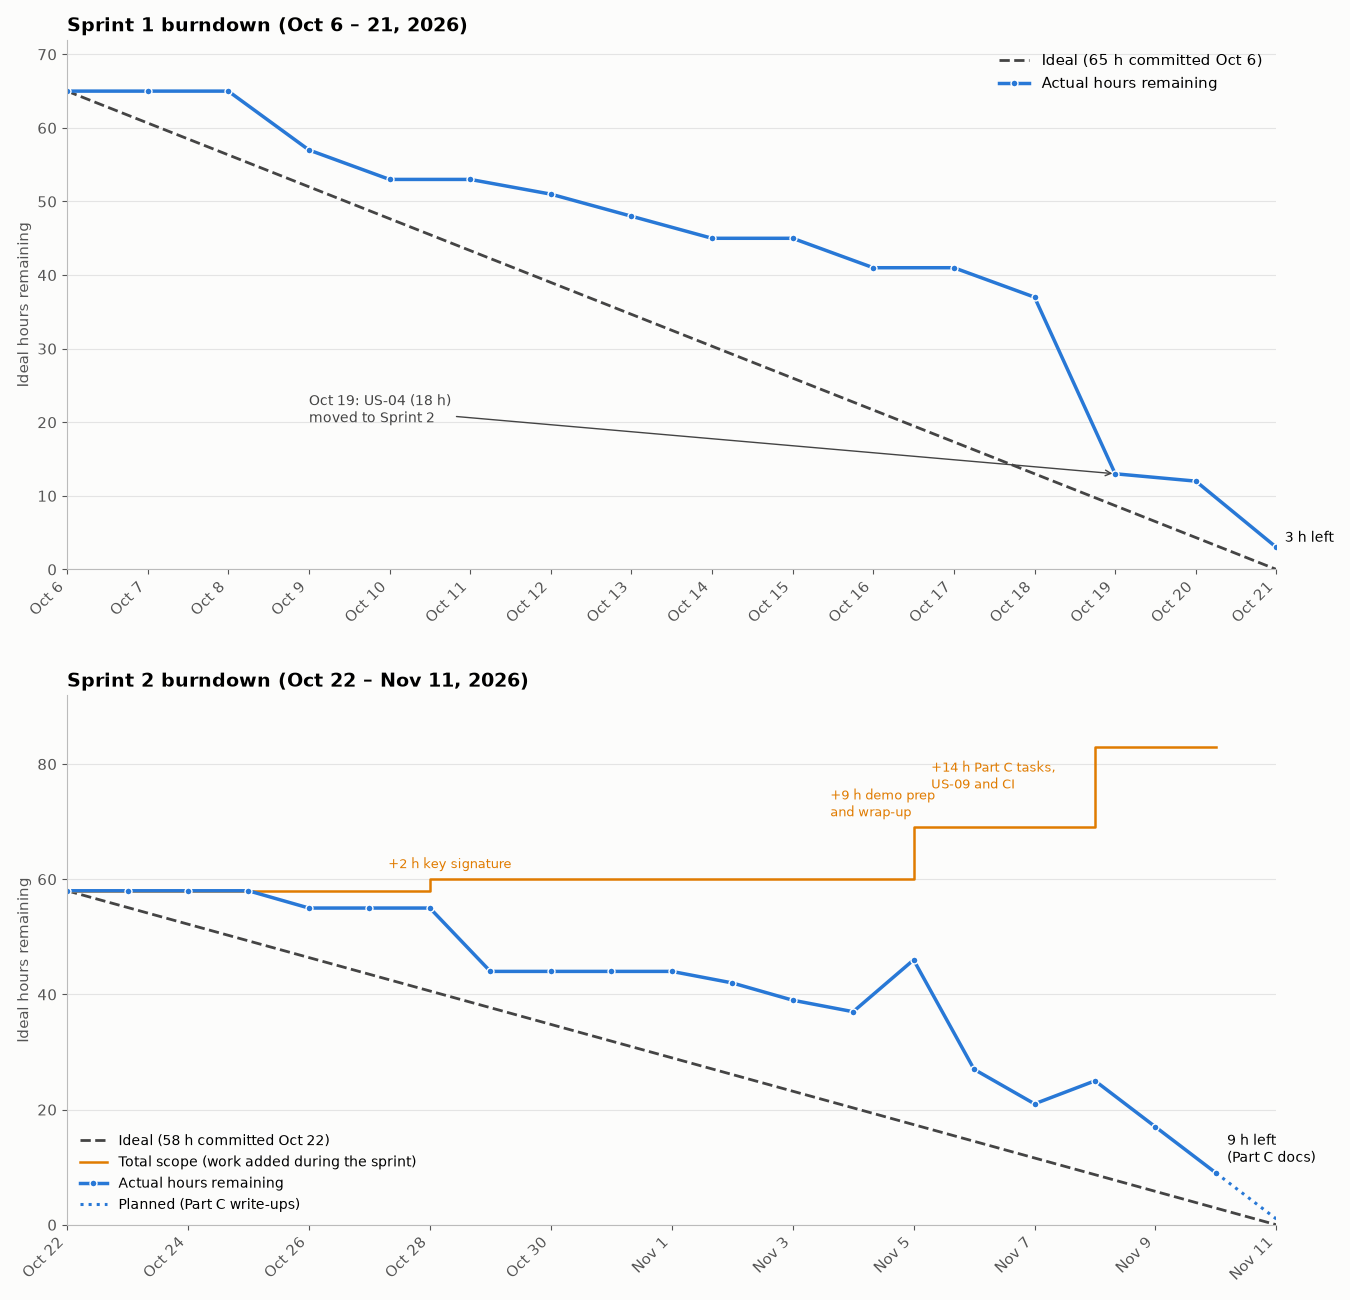
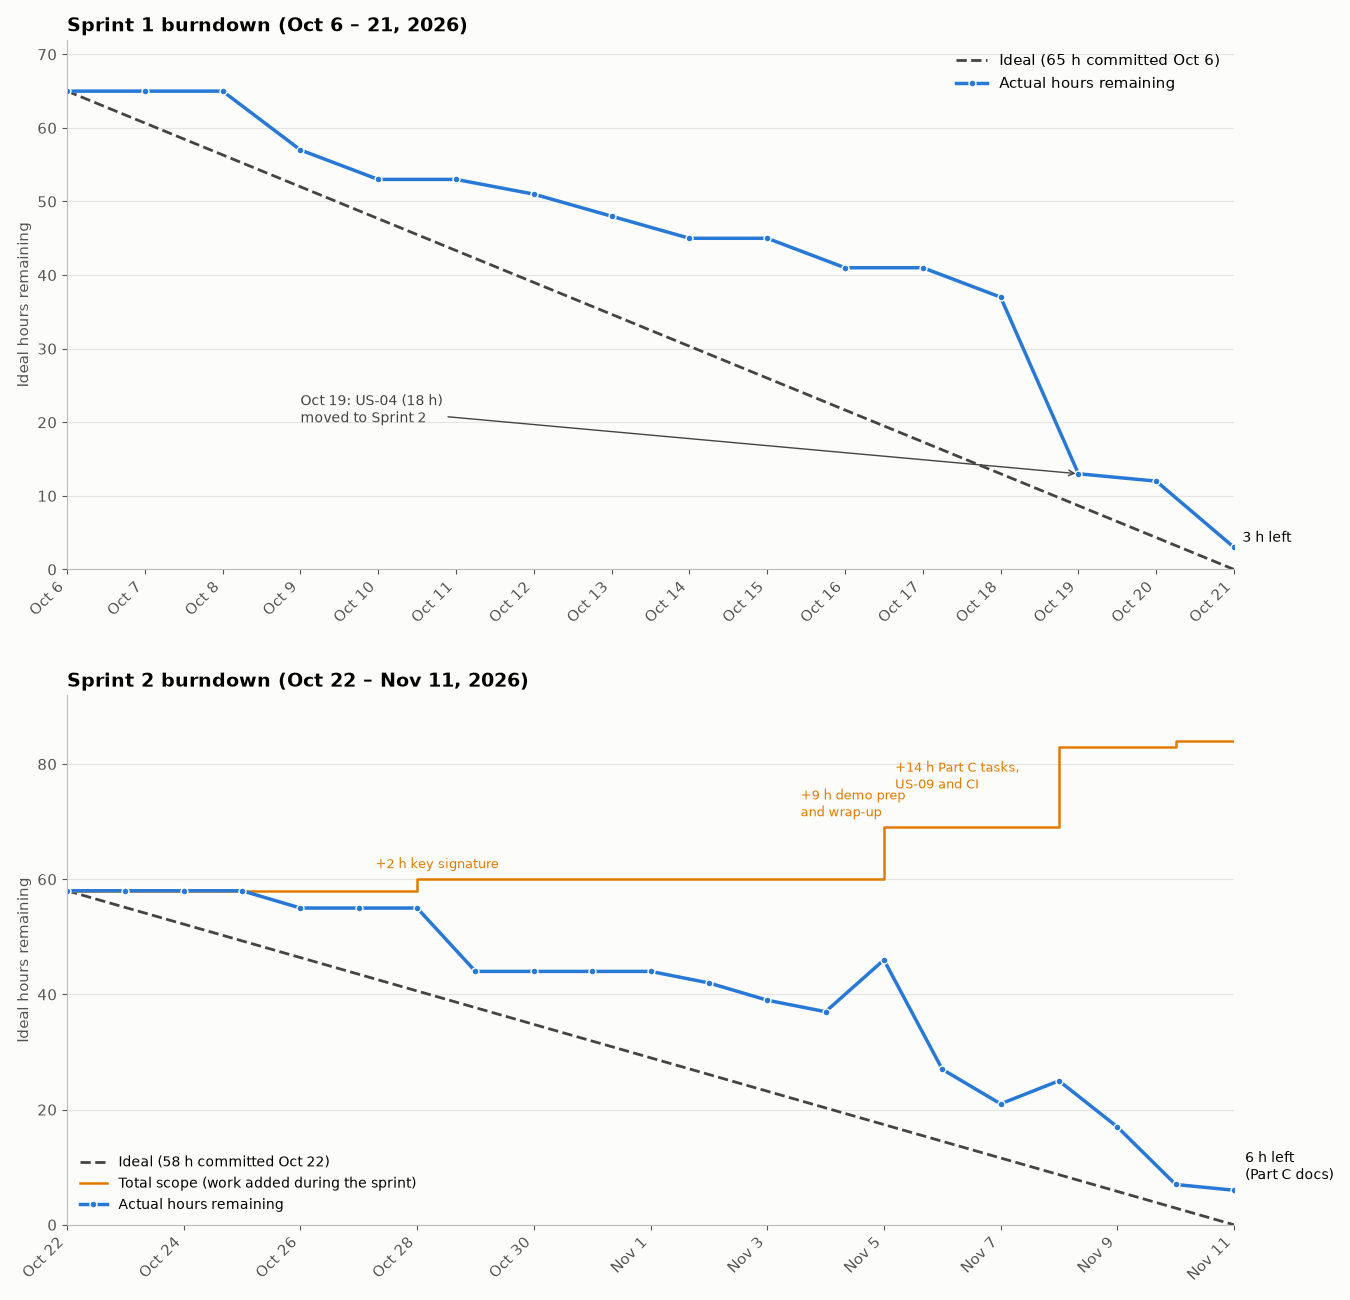
NTT-114 NTT-116 NTT-117 Sprint 2 final numbers, retro, lessons learned, final burdown

diff --git a/README.md b/README.md
@@ -867,8 +867,6 @@ Part C covers iteration 2 (Sprint 2, Oct 22 – Nov 11) and Milestone 1.0. Our p
 
 ## 11. Iteration 2 Results
 
-> [Numbers as of Tue Nov 10. Final numbers on Wed Nov 11 when Sprint 2 closes.]
-
 Sprint 2 goal: a user can write a piece note by note, see it as real sheet music, fix mistakes, and reopen it from their library, with every page private to its owner. All of that is merged to `main`, along with renaming and deleting a piece (US-09), which we pulled in on Nov 8.
 
 ### Stories
@@ -885,14 +883,15 @@ Sprint 2 goal: a user can write a piece note by note, see it as real sheet music
 | US-12 | Keep my compositions private | 4 | 4 | Done |
 | US-09 | Rename or delete a composition | 7 | 7 | Done (added Nov 8) |
 | | Run tests automatically on every PR (NTT-119) | 1 | 1 | Done (added Nov 8) |
-| | Demo prep, wrap-up and Part C tasks | 15 | 6 | Demo prep done; Part C write-ups due Nov 11 and 12 |
-| | Total | 83 | 74 | 9 h left, all Part C documents |
+| | Edit form keeps an explicit ♯ or ♭ (NTT-120, from Jae's review of #41) | 1 | 1 | Done (added Nov 10) |
+| | Demo prep, wrap-up and Part C tasks | 15 | 9 | Demo prep, Milestone 2.0 and the README run/test section done; this write-up, lessons, final burndown and submission finished Nov 12 |
+| | Total | 84 | 78 | 6 h left when the sprint closed, all Part C documents |
 
 US-04 and US-05 are an hour higher than planned because notes now follow the key signature (see below).
 
 ### Scope changes
 
-We added work five times during the sprint. Each one was agreed by the team and added to Jira the same day, so the burndown shows it.
+We added work six times during the sprint. Each one was agreed by the team and added to Jira the same day, so the burndown shows it.
 
 | Date | What was added | Hours | Why |
 |---|---|---|---|
@@ -901,6 +900,7 @@ We added work five times during the sprint. Each one was agreed by the team and 
 | Nov 8 | NTT-114 to NTT-118, the Part C deliverables | +6 | Milestone 2.0 doc, README updates, final burndown, Part C folder and submission |
 | Nov 8 | US-09 rename or delete a composition | +7 | The features were done early, and Jae and Daniel had time. It makes "Edit details" in the editor work |
 | Nov 8 | NTT-119 run tests automatically on every PR | +1 | Until then reviewers ran `pytest` by hand. A GitHub Action now runs every test on every PR |
+| Nov 10 | NTT-120 edit form keeps an explicit ♯ or ♭ | +1 | Jae had asked for this change in her review of #41, but #41 was merged without it. Since US-09 lets you change a piece's key, it could change a note's pitch |
 
 ### Burndown
 
@@ -912,8 +912,8 @@ Hours left at the end of each day. A task counts as done on the day its PR was m
 
 | Date | Oct 22 | 26 | 28 | 29 | Nov 2 | 3 | 4 | 5 | 6 | 7 | 8 | 9 | 10 | 11 |
 |---|---|---|---|---|---|---|---|---|---|---|---|---|---|---|
-| Scope | 58 | 58 | 60 | 60 | 60 | 60 | 60 | 69 | 69 | 69 | 83 | 83 | 83 | |
-| Hours left | 58 | 55 | 55 | 44 | 42 | 39 | 37 | 46 | 27 | 21 | 25 | 17 | 9 | |
+| Scope | 58 | 58 | 60 | 60 | 60 | 60 | 60 | 69 | 69 | 69 | 83 | 83 | 84 | 84 |
+| Hours left | 58 | 55 | 55 | 44 | 42 | 39 | 37 | 46 | 27 | 21 | 25 | 17 | 7 | 6 |
 
 Days that aren't shown had no change.
 
@@ -922,7 +922,8 @@ What the chart shows:
 - The first week was slow. Most of the early tasks depended on the add-note route and the render service, and Aaron was out sick from Oct 29, so his tasks were handed over (NTT-41 to Daniel, NTT-48 and NTT-49 to Jae, NTT-111 to Varuzhan).
 - The line goes up on Nov 5 and Nov 8 because we added work, not because work was undone.
 - Most of the drop came on Nov 6 to Nov 8, when we merged 16 PRs in three days. Many of them had been finished earlier and were waiting for review or for another PR to merge first.
-- On Nov 9 and 10 we merged US-09, the GitHub Action and the last test tasks. All the code was done by the Nov 10 code freeze. The 9 hours left are the Part C documents: the README write-ups, Milestone 2.0 and the final submission.
+- On Nov 9 and 10 we merged US-09, the GitHub Action, the last test tasks, Milestone 2.0 and the README run/test section. All the code was done by the Nov 10 code freeze, except the small NTT-120 fix merged on Nov 11.
+- The line ends at 6 hours: this write-up, the lessons learned, the final burndown and the submission. They depended on the sprint being over, so we finished them on Nov 12, before the Part C deadline.
 
 ### Velocity
 
@@ -930,8 +931,10 @@ What the chart shows:
 |---|---|
 | Hours available (50 h/week × 3 weeks) | 150 |
 | Velocity we planned with | 0.42 (from Sprint 1) |
-| Ideal hours finished | 74 as of Nov 10 [final on Nov 11] |
-| Measured velocity | 0.49 as of Nov 10 (74 ÷ 150) [final on Nov 11] |
+| Ideal hours finished | 78 |
+| **Measured velocity** (78 ÷ 150) | **0.52** |
+
+We planned with 0.42 and measured 0.52, so we did a little better than planned and finished more than we committed to (58 hours planned, 78 done, including US-09). The gap to 0.7 is still the time between "code done" and "merged": reviews, merge order and conflicts.
 
 ### Working code and tests
 
@@ -952,7 +955,8 @@ Merged to `main` in Sprint 2:
 
 - [Oct 28 stand-up](meetings/2026-10-28-standup.md): sprint status, due dates and "blocks / is blocked by" links in Jira, the key-signature decision, PR conventions.
 - [Nov 4 stand-up](meetings/2026-11-04-standup.md): status, PR descriptions, storing Key as `""`, reviews, final-week plan, demo planning.
-- [Nov 11 stand-up]: [sprint review and retro, added Nov 11]
+- [Nov 11 stand-up](meetings/2026-11-11-standup.md): sprint review, lessons learned, #55 reviewer, presentation walkthrough and demo setup.
+- [Sprint 2 retro responses](meetings/sprint-2-retro-responses.md): each team member's answers to the three retro questions.
 
 ## 12. Retrospective (Sprint 2)
 
@@ -960,20 +964,46 @@ Merged to `main` in Sprint 2:
 
 | What we said we'd change | What happened |
 |---|---|
-| Review within 24 hours | Partly. Some PRs still waited several days, then a lot were reviewed and merged together on Nov 6 to Nov 8. |
+| Review within 24 hours | Partly. Some PRs still waited several days, especially doc-only ones, then a lot were reviewed and merged together on Nov 6 to Nov 8. |
 | Make dependencies visible | Done. Jira tasks got due dates and "blocks / is blocked by" links, the PR template has a "Depends on" section, and we wrote down route names before building (for example the edit-note routes). Merge-order conflicts still happened, but we knew about them ahead of time. |
-| Run tests automatically on every PR | Done. Until Nov 9 each reviewer ran `pytest` by hand before approving. On Nov 9 we added a GitHub Action (NTT-119) that runs every test on every PR and shows the result on the PR page. |
-| Plan with the measured velocity | Done. We planned Sprint 2 at 0.42. |
+| Run tests automatically on every PR | Done, but late. Until Nov 9, reviewers ran `pytest` by hand before approving. On Nov 9 we added a GitHub Action (NTT-119) that runs every test on every PR and shows the result on the PR page. |
+| Plan with the measured velocity | Done. We planned Sprint 2 at 0.42 and measured 0.52. |
 | Spread the critical path | Mostly. When Aaron was sick, his tasks were split between three people the same day. |
 
 ### What went well
 
-[From the Sprint 2 retro answers, due Tue Nov 10]
+All five of us answered the three retro questions. The full answers are in [meetings/sprint-2-retro-responses.md](meetings/sprint-2-retro-responses.md).
+
+- **We delivered the whole sprint goal, plus US-09.** Note entry, rests, sheet music, editing and deleting notes, piece settings and privacy are all on `main`.
+- **Teamwork held up.** When tasks had to be reassigned (Aaron was out sick for a week), others picked them up the same day. People helped each other through code reviews.
+- **Testing caught real bugs.** Tests grew from about 110 to 555, with 98% coverage of the app code. GitHub now runs every test on every pull request, which sped up reviews.
+- **The early rendering spike paid off.** Choosing music21 and Verovio in Sprint 1 meant the sheet-music work went smoothly.
+- **The demo script and setup checklist** made the presentation easier to prepare.
 
 ### What didn't go well
 
-[From the Sprint 2 retro answers, due Tue Nov 10]
+- **Reviews were still slow.** Some PRs waited days for a review, especially doc-only ones. #41 was merged on one approval while Jae's "changes requested" review was still open, so her fix came later in #61 (NTT-120).
+- **Dependencies caused delays and conflicts.** Many tasks needed another PR merged first. Daniel couldn't finish the edit tests until the selection and edit form were merged, and PRs piled up waiting on merge order and conflicted with each other.
+- **It was hard to track status.** It wasn't always clear what was pushed, waiting for review or merged, and a few tasks finished late or were reassigned back and forth.
+- **Some requirements needed clarifying mid-sprint,** which led to extra changes (for example how "Key" is saved).
+- **Scope grew near the end.** Demo prep, the Part C tasks and US-09 weren't in the sprint at the start, which shows as jumps in the burndown.
+- **Not every PR has a recorded review.** 9 PRs, mostly from Sprint 1 and none after Nov 2, were merged without a GitHub review.
+
+### What we could improve
+
+- **Review within 24 hours, and review first what unblocks a teammate.** Assign the reviewer when the PR is opened, so reviews start right away.
+- **Agree on shared pieces before coding:** route names, fixtures, and requirements like how a value is saved.
+- **Keep PRs small and merge them in order.**
+- **Keep Jira current,** with the PR link and status on each task.
+- **Automate early.** Set up tests on every PR at the start of a project, and block merging while any review still requests changes.
+- **Put all the planned work in the sprint at the start,** including demo prep and write-ups, and plan with our measured velocity.
 
 ## 13. What We Learned
 
-[The three most important things we learned about software development (NTT-116), from the retro answers.]
+The three most important things we learned about software development, agreed at the [Nov 11 stand-up](meetings/2026-11-11-standup.md):
+
+1. **Test risky ideas early.** Our Sprint 1 rendering spike tried several ways to draw sheet music before we built anything, and we picked music21 and Verovio. That cut the sheet-music story from 17 to 10 hours, and US-06 went smoothly in Sprint 2.
+
+2. **Review PRs quickly and communicate clearly.** Our biggest delays came from PRs waiting days for review, and from branches that went out of date and conflicted. When #41 was merged with a teammate's change request still open, the fix had to come later in its own PR (#61). Small PRs, quick reviews and clear "depends on" notes keep the whole team moving.
+
+3. **Testing makes teamwork more reliable.** With five people changing the same app, tests let us change code without breaking each other's work. Daniel's US-09 test caught a missing tempo error message before it shipped, and the GitHub Action now runs all 555 tests on every PR.

diff --git a/meetings/sprint-2-retro-responses.md b/meetings/sprint-2-retro-responses.md
@@ -1,6 +1,6 @@
 # Sprint 2 retrospective: team responses
 
-Answers to the three retro questions, sent by message after the [Nov 11 stand-up](2026-11-11-standup.md). These feed section 12 (Retrospective) of the README.
+Answers to the three retro questions, sent by message around the [Nov 11 stand-up](2026-11-11-standup.md). These feed section 12 (Retrospective) of the README.
 
 1. What went well?
 2. What didn't go well?
@@ -11,3 +11,27 @@ Answers to the three retro questions, sent by message after the [Nov 11 stand-up
 1. **Went well:** The early rendering spike helped us choose the right tools, and teammates supported each other through PR reviews and testing.
 2. **Didn't go well:** Some PR reviews took longer than expected, merge conflicts caused delays, and some Sprint 2 tests depended on other features being merged first.
 3. **Improve:** Review PRs within 24 hours, make task dependencies clearer in Jira, and plan future work based on our actual velocity.
+
+## Ryan Miller, Nov 12
+
+1. **Went well:** We delivered note entry, rests, sheet music, editing, deleting, settings and privacy. Tests grew from about 110 to 555 with 98% coverage, and GitHub now runs every test on every pull request.
+2. **Didn't go well:** Many tasks depended on each other, so PRs piled up waiting on review or merge order, several of them conflicted with each other, and a few tasks finished late or got reassigned back and forth.
+3. **Improve:** Agree on shared pieces like route names and fixtures before coding starts, keep PRs small and merge them in order, and assign a reviewer when the PR is opened so reviews start right away.
+
+## Daniel Abalusi, Nov 12
+
+1. **Went well:** We supported each other when tasks needed to be reassigned. Clear pull request reviews and automated tests helped us catch issues before merging. I also appreciated having a demo script and setup checklist to prepare for the presentation.
+2. **Didn't go well:** Some tasks depended on unfinished features, so I couldn't complete the edit tests until the selection and edit form were merged. Keeping track of what was pushed, awaiting review, or merged was sometimes confusing.
+3. **Improve:** Identify dependencies earlier, prioritize reviews that unblock teammates, and keep Jira updated with the PR link and current status. Preparing a shared demo environment earlier would also give us more time to rehearse.
+
+## Beijia Gu (Jae), Nov 12
+
+1. **Went well:** Teamwork and communication improved during Sprint 2. We helped each other through code reviews, and testing helped us catch bugs before merging. I also learned a lot from implementing features and reviewing other people's code.
+2. **Didn't go well:** Some PR reviews and task dependencies caused delays. A few requirements also needed clarification during development, which led to extra changes and debugging.
+3. **Improve:** We could clarify requirements and dependencies earlier, especially when multiple people are working on related features. Smaller PRs, faster reviews, and more frequent testing would also help us avoid last-minute issues.
+
+## Varuzhan Shahidzadeh, Nov 12
+
+1. **Went well:** Communication improved even more. The automated tests on every PR, although added late, helped speed up reviews.
+2. **Didn't go well:** Some PRs still took days to be reviewed and approved, especially doc-only ones. Our scope grew near the end, which shows as a spike in the burndown, because we had a few tasks we hadn't added to the sprint. There were conflicts when merging, but they were easily resolved.
+3. **Improve:** We could have automated the testing sooner, and reviewed and approved PRs sooner to prevent conflicts.
